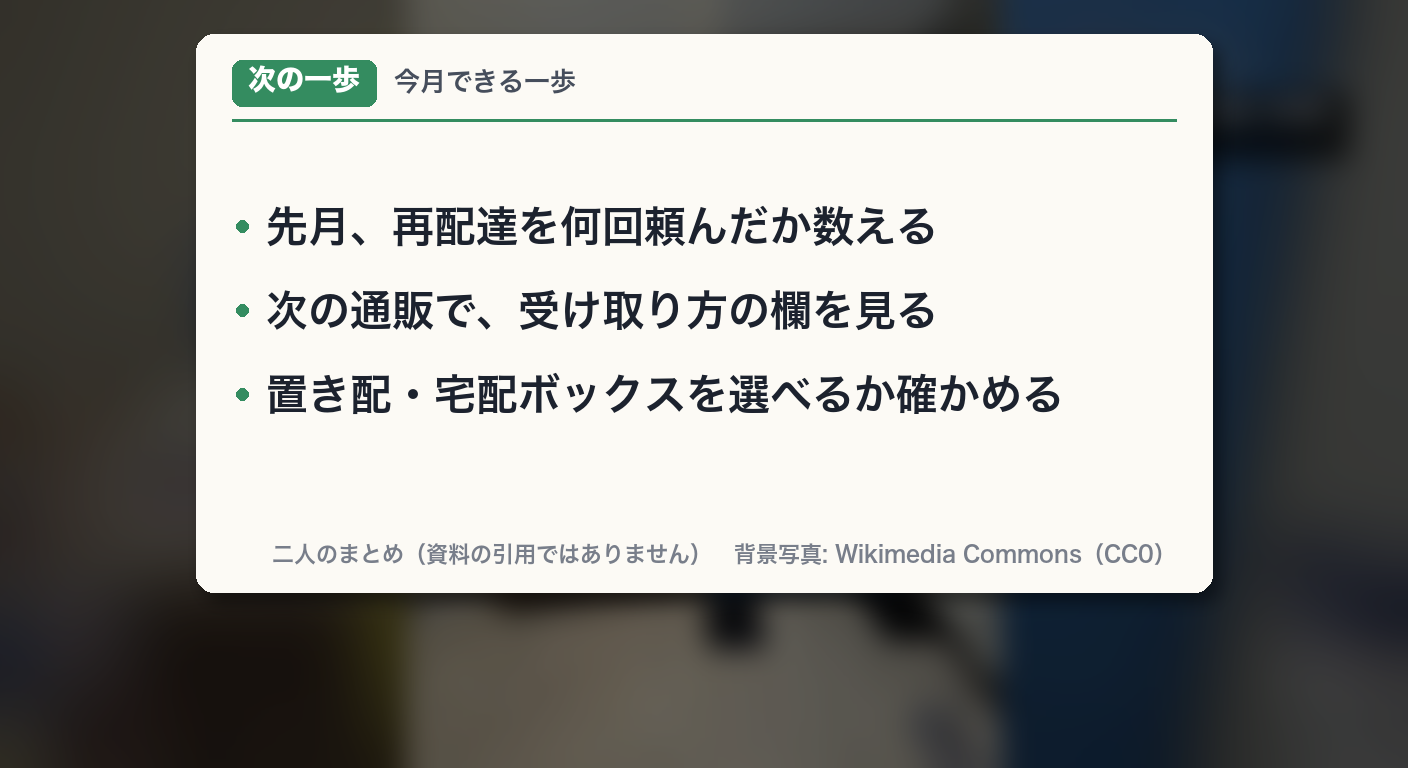
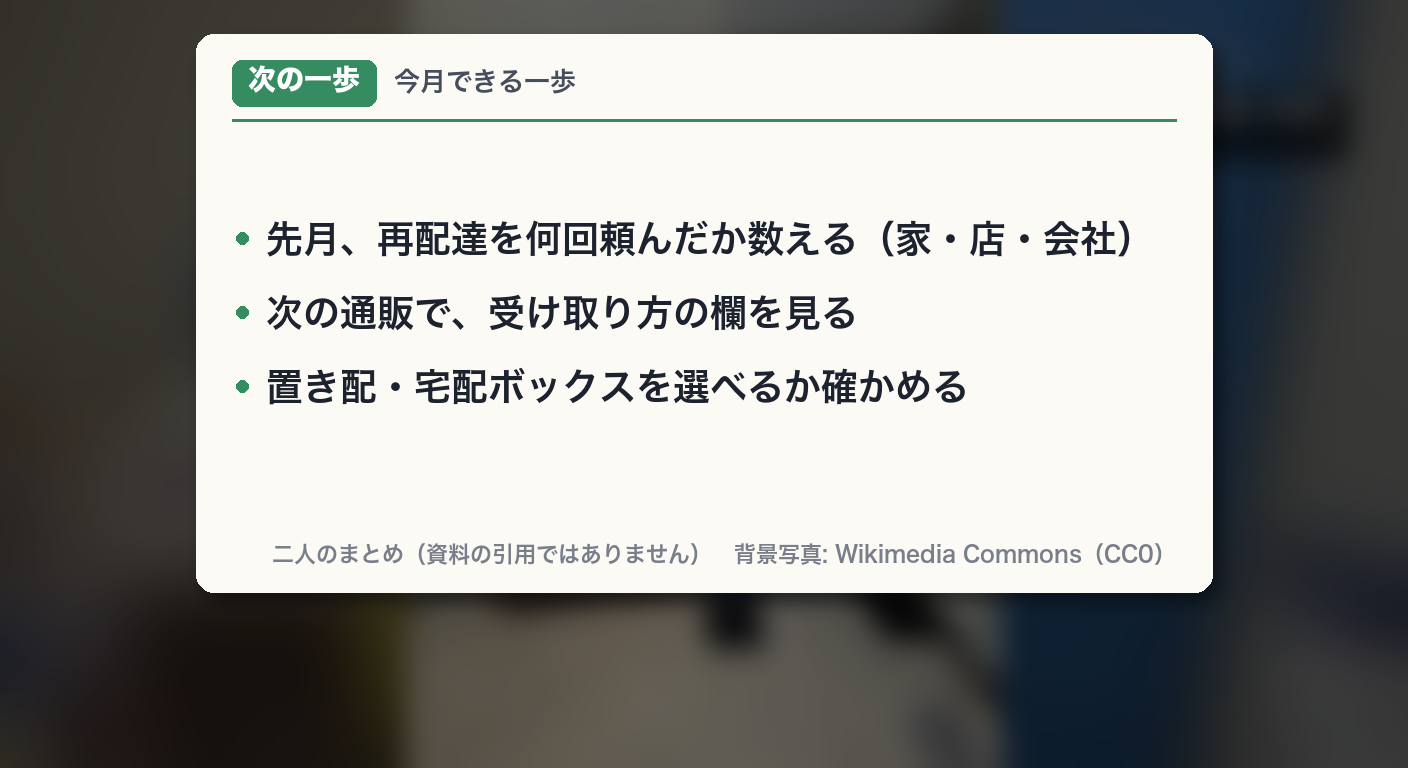
kl061: 初見レビューr1の直し（直す4件）

Changed region(s): [[0.1562, 0.25, 0.8125, 0.3438], [0.1562, 0.4688, 0.75, 0.5625], [0.1875, 0.375, 0.6562, 0.4375]]

diff --git a/script_prep/kl061.md b/script_prep/kl061.md
@@ -78,14 +78,16 @@
 |---|---|---|---|
 | 発表者 | （出さない） | 「ロボットの会社、ネットスター」→以後「ネットスターの発表」 | NETSDAR、ネットスターロボットソリューションズ |
 | 実験の枠組み | — | 「福岡市などが進める、まちづくりの実験」（1回だけ） | FUKUOKA Smart EAST（台詞では言わない。カードと概要欄） |
-| 建物 | 「マンション」 | 「福岡市にある、URの賃貸住宅。団地の一棟」→以後「福岡の団地」 | 香椎3号棟（カード・概要欄だけ） |
-| アイホン | — | 「インターホンの会社、アイホン」 | Pabbit・dearis（台詞では言わない。カードは「Pabbit（パビット）」） |
+| 建物 | 「マンション」 | 「福岡市にある、URの賃貸住宅」＋沙織「URって、昔の住宅公団？」→「団地の一棟」（初見r1-10で追加） | 香椎3号棟（カード・概要欄だけ） |
+| アイホン | — | 台詞では社名を言わず「インターホンの会社」→「同じインターホンの会社」（初見r1-3: 耳で「アイフォン」に聞こえるため。カードの文字は「アイホン」のまま） | 台詞の「アイホン」、Pabbit・dearis（カードは「Pabbit（パビット）」） |
 | オーチス | — | 「エレベーターの会社」（社名は1回だけ「オーチス」） | 日本オーチス・エレベータ |
 | ワールドサプライ | — | 「物流の会社」 | 社名（台詞では言わない） |
 | アマゾン | — | 「アマゾンの配達」 | Amazon Key |
 | ロボット | 「ロボ」（タイトル）／「ロボット」（台詞） | 台詞は全部「ロボット」 | 配送ロボ、AMR |
 | 置き配 | 「玄関前に置く」 | 「置き配」（S5で定義） | 「家に入る」「部屋に入る」（使わない） |
 | 置く場所 | 「玄関の前」 | 「オートロックの内側の、玄関の前」 | 「家の中」 |
+| トレイ | — | 「載せている受け皿ごと」「空いた受け皿の回収を頼む」（誰が取りに来るかは資料に無いと言う。初見r1-4） | 「トレイ」「ロボットが取りに来る」 |
+| 予想・札の「3年」 | — | 大輔「3年のうちに」／沙織「ふつうになるのは、3年より先」／札「3年はかかる」＝「すぐではないけど、3年のうちには来そう」と S12 で一言（初見r1-1・2） | 沙織の「3年より長くかかる」（札と同じに聞こえる）、「3年はかかる、に上げる」 |
 | 実験の日 | — | 「11月18日」「1日、1時間半」 | 「11月の実験」と「先週の実験」の混在 |
 | 発表の日 | — | 「11月17日の発表」（1回だけ） | — |
 | 前の実験 | — | 「去年の11月、同じ建物で」 | 「前年度」「昨年度」 |
@@ -93,7 +95,7 @@
 | 国の調査 | — | 「今年4月の国の調査」 | 令和8年、国交省（台詞では「国の調査」） |
 | 再配達率 | — | 「7.6%。100個のうち、8個近く」 | — |
 | 判定の時期 | — | 「11月24日時点の、二人の見立て」 | — |
-| 「再配達ゼロ」 | （タイトル・予告で使わない） | 「会社の目標」として判定の場面で1回だけ | 「ゼロになる」 |
+| 「再配達ゼロ」 | （タイトル・予告で使わない） | 「会社の目標」として判定の場面で1回だけ（「判定の前に、もう一つ。」で入る。初見r1-5） | 「ゼロになる」 |
 
 ## 8. 写真の探索（STEP 2 写真の手順 (8)(10)）
 
